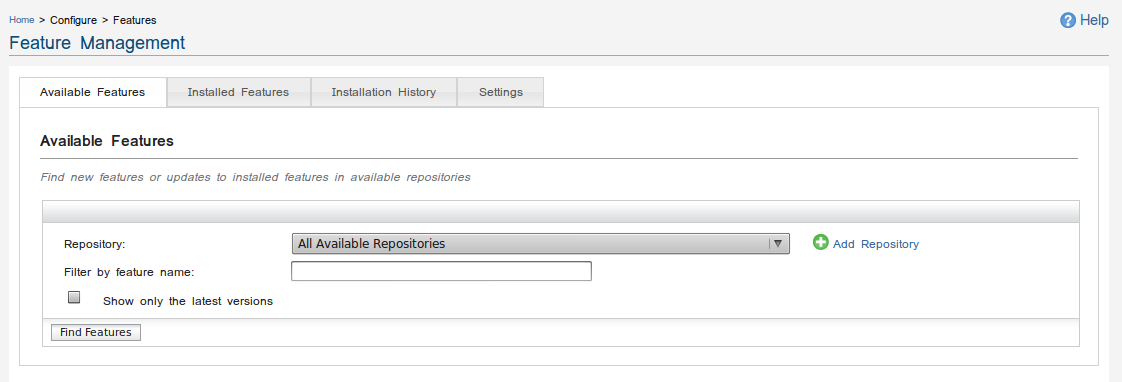
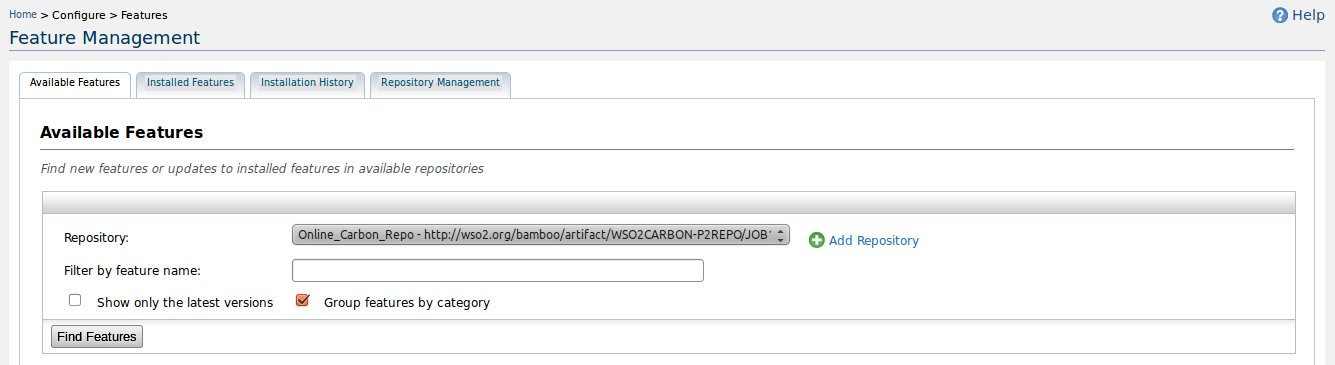
updating feature-manager user guide
git-svn-id: https://svn.wso2.org/repos/wso2/carbon/kernel/trunk@135797 a5903396-d722-0410-b921-86c7d4935375

diff --git a/core/feature-manager/org.wso2.carbon.feature.mgt.ui/src/main/resources/web/feature-mgt/docs/userguide.html b/core/feature-manager/org.wso2.carbon.feature.mgt.ui/src/main/resources/web/feature-mgt/docs/userguide.html
@@ -45,7 +45,7 @@
 
     <h2>2) Available Features</h2>
     <p>This tab allows you to install new features or upgrade existing features. Features are available in repositories.
-        If you haven't add any repository, please click the Add Repository link.  
+        If you haven't added any repository, please click the Add Repository link.  
         The task of installing features is performed in four steps.</p>
     <ol>
         <li>Search for available features in added repositories.</li>
@@ -58,13 +58,20 @@
     <p><img alt="" src="images/find-features.png"/></p>
     <p>Figure : Find features</p>
     <p>This section allows you to search for available features in repositories. You can select the exact repository or
-        all available repositories. Some repositories contains multiple versions of features. If you are only
-        interested in latest versions, you can use the "Show only the latest versions" option.</p>
+        all available repositories. Some repositories contains multiple versions of features. 
+        With "Group features by category" option enabled by default, you can view available features in the repository grouped under feature categories.
+        A feature category is a logical grouping of the features which constitute a particular Carbon-based product.
+        For example, the features required to install WSO2 Application Server is grouped under the 'Application Server' feature category.
+        If you require to install all the features of Application Server at once, you can simply select the  'Application Server' feature category as below.
+        If you are only interested in latest versions, you can use the "Show only the latest versions" option.</p>
+    <p><img alt="" src="images/select-a-category-to-install.png"/></p>
+    <p>Figure : Feature category</p>  
+    <p>If you disable the "Group features by category" option and find features, you can view all available features in the repository in an uncategorized flat structure.</p>  
     <p>If the selected repository contains features which are already installed in the system, they will not be shown
         under the available features list. And also previous versions of installed features will not be shown.</p>
 
     <h3>2.2) Select the features you wish to install</h3>
-    <p><img alt="" src="images/available-features.png"/></p>
+    <p><img alt="" src="images/available-features-uncategorized.png"/></p>
     <p>Figure : Available feature list</p>
     <p>Once you click the "Find Features" button, you will be able to see a list of available features that match the
         criteria you have specified. Now you can select features you wish to install. Click "Install" to proceed to
@@ -133,8 +140,8 @@
     <p><img alt="" src="images/configuration-details.png"/></p>
     <p>Figure : Previous configuration details</p>
 
-    <h2>5) Settings</h2>
-    <p>This tab allows you to view or modify feature management settings.</p>
+    <h2>5) Repository Management</h2>
+    <p>This tab allows you to view or modify repository management settings.</p>
     <!--<p><img alt="" src="images/settings.png"/></p>-->
     <!--<p>Figure : Setting page</p>-->
 
@@ -145,7 +152,7 @@
     <p>Figure : Manage repository page</p>
 
     <h4>5.1.1) Adding a new repository</h4>
-    <p>Click "Add New Repository" link in the Manage Repositories page. Provide a convenient name and a url of the
+    <p>Click "Add Repository" link in the Manage Repositories page. Provide a convenient name and a url of the
         repository. If you have a downloaded repository to your computer, add the file path of directory.</p>
     <p><img alt="" src="images/add-repositories.png"/></p>
     <p>Figure : Add repository</p>
